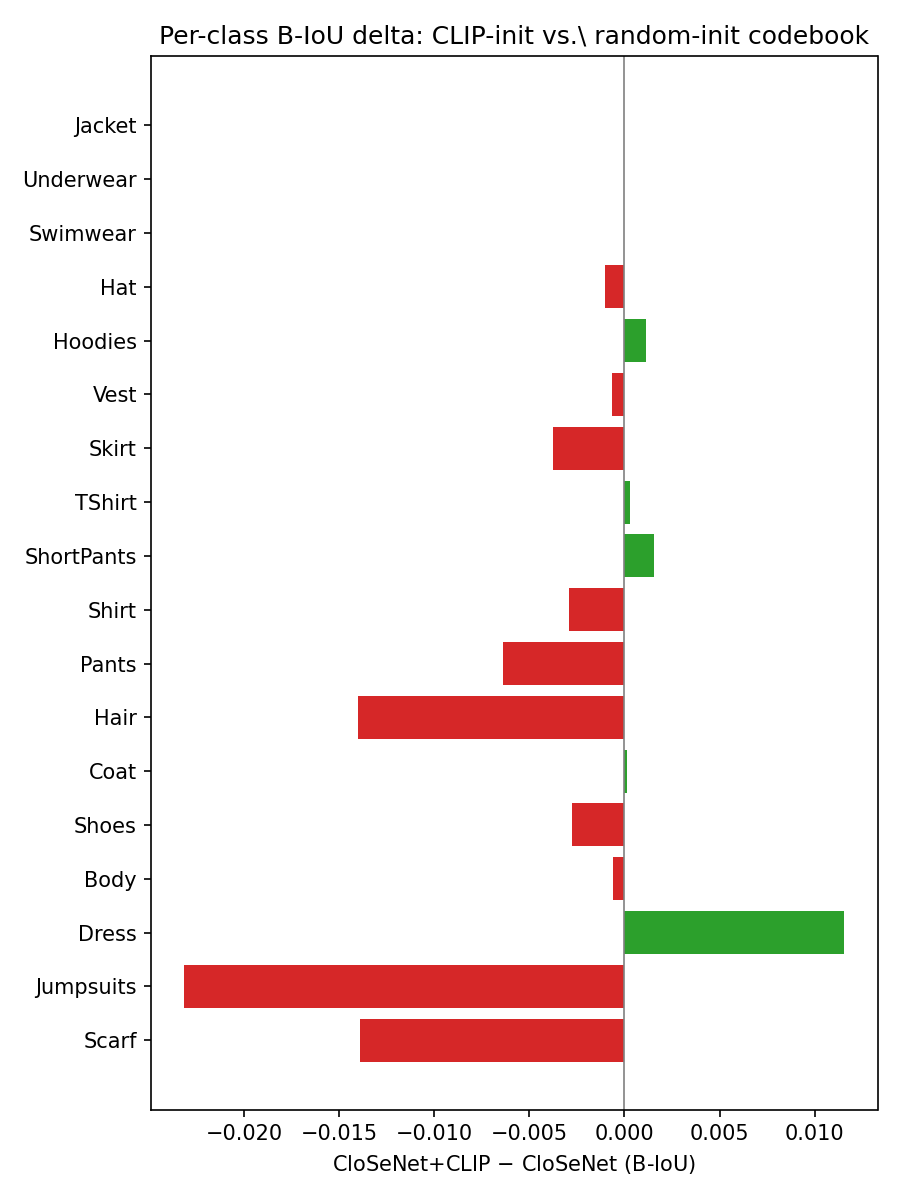
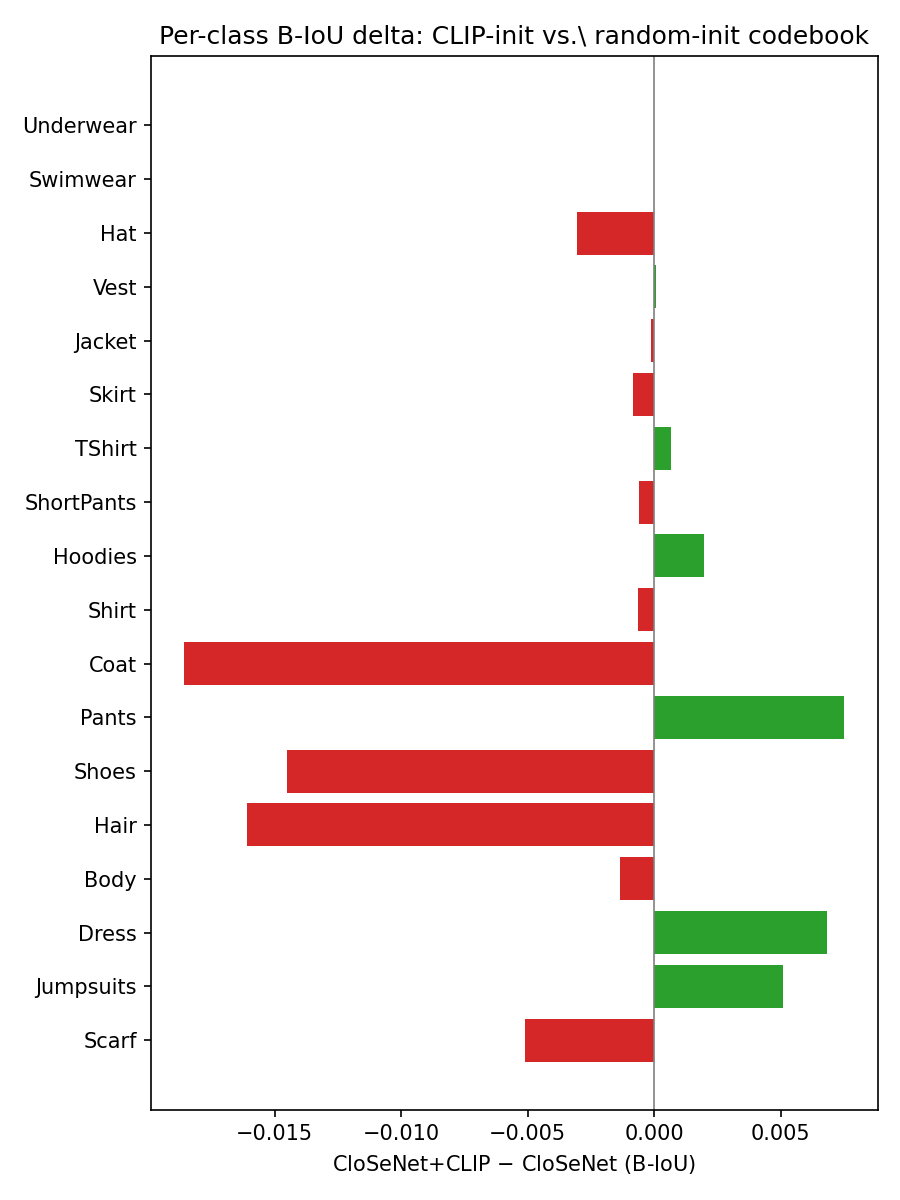
update report

diff --git a/reports/report.tex b/reports/report.tex
@@ -90,7 +90,7 @@ itself is already boundary-aware? Going from PTB to PTB+BRM+CBL, the SegFix B-Io
 
 \section{Per-Class Breakdown}
 
-Classes that regress under + PTB + BRM + CBL: Jacket, Hat, Hoodies, Vest, Skirt, TShirt, Hair, Body. Correlation between a class's baseline mean IoU and its baseline seed-to-seed std is -0.67 (lower-IoU classes do show higher seed variance). Classes that regress on B-IoU: Jacket, Hat, Hoodies, Vest, Skirt, TShirt, Hair, Body.
+Classes that regress under + CBL: Vest, Skirt, Shirt, Coat, Pants, Shoes, Hair, Scarf. Correlation between a class's baseline mean IoU and its baseline seed-to-seed std is -0.76 (lower-IoU classes do show higher seed variance). Classes that regress on B-IoU: Vest, Skirt, Shirt, Coat, Pants, Shoes, Hair, Scarf.
 
 \begin{figure}[h]
 \centering
@@ -185,7 +185,7 @@ Section 5's own chart.
 \caption{Per-class B-IoU delta: CLIP-init vs.\ random-init codebook (both plain baselines, no PTB/BRM/CBL).}
 \end{figure}
 
-PTB+BRM+CBL's largest B-IoU gains over baseline are exactly these tail classes (Dress +11.34 pp, Jumpsuits +9.70 pp, Scarf +11.64 pp). CLIP-init alone regresses Jumpsuits -2.31 pp, Scarf -1.39 pp, while marginally improving Dress +1.16 pp. The semantic prior evidently does not reliably encode the geometric cues that distinguish thin, boundary-heavy garment regions in 3D point clouds -- consistent with CLIP+PTB+BRM+CBL recovering rather than exceeding PTB+BRM+CBL's tail-class performance (Section~8.3): CLIP contributes little on precisely the classes where the boundary methods do most of their work.
+PTB+BRM+CBL's largest B-IoU gains over baseline are exactly these tail classes (Dress +1.70 pp, Jumpsuits +1.70 pp, Scarf -0.17 pp). CLIP-init alone regresses Scarf -0.51 pp, while marginally improving Dress +0.68 pp, Jumpsuits +0.51 pp. The semantic prior evidently does not reliably encode the geometric cues that distinguish thin, boundary-heavy garment regions in 3D point clouds -- consistent with CLIP+PTB+BRM+CBL recovering rather than exceeding PTB+BRM+CBL's tail-class performance (Section~8.3): CLIP contributes little on precisely the classes where the boundary methods do most of their work.
 
 \subsection{Interaction Summary}
 
@@ -203,6 +203,6 @@ Under random init, BRM's B-IoU effect is buried in seed noise (-0.44 $\pm$ 0.45 
 
 \subsection{Discussion}
 
-Within the CLIP-initialized campaign, most individual contributions leave aggregate B-IoU comparable to or worse than the CLIP baseline (Table~8.2); the exception is CBL at +1.15 pp vs.\ the CLIP baseline. On the tail classes, CLIP-alone clearly lags PTB+BRM+CBL (Dress 10.2 $\pm$ 1.38 pp, Jumpsuits 12.0 $\pm$ 2.34 pp, Scarf 13.0 $\pm$ 0.26 pp; Table~8.3), but combining both matches PTB+BRM+CBL on the tail (no detectable per-class difference there) while adding no detectable aggregate B-IoU (+0.40 $\pm$ 0.28 pp vs.\ PTB+BRM+CBL alone). This is consistent with CLIP shaping the codebook in a way that helps common-class boundaries but does not resolve the hard cases the boundary-supervision methods target. Under CLIP init, PTB's effect remains negative and measurable (-3.23 $\pm$ 0.42 pp), and BRM's becomes detectable (-0.36 $\pm$ 0.14 pp). Neither is eliminated by CLIP -- both continue to trade aggregate B-IoU for tail-class gains, just as they did under random init. CBL vs.\ its own baseline is the only individual contribution with a positive point estimate under CLIP init (+1.15 $\pm$ 0.65 pp, though -- like every individual contribution in Table~8.2 -- it falls just short of this report's $2\sigma$ detectability bar); under random init the same comparison is smaller and clearly undetectable (-0.53 $\pm$ 0.37 pp).
+Within the CLIP-initialized campaign, most individual contributions leave aggregate B-IoU comparable to or worse than the CLIP baseline (Table~8.2); the exception is PTB at +0.82 pp vs.\ the CLIP baseline. On the tail classes, CLIP-alone clearly lags PTB+BRM+CBL (Dress 1.0 $\pm$ 1.35 pp, Jumpsuits 1.2 $\pm$ 2.12 pp, Scarf 0.3 $\pm$ 1.06 pp; Table~8.3), but combining both matches PTB+BRM+CBL on the tail (no detectable per-class difference there) while adding no detectable aggregate B-IoU (+0.40 $\pm$ 0.28 pp vs.\ PTB+BRM+CBL alone). This is consistent with CLIP shaping the codebook in a way that helps common-class boundaries but does not resolve the hard cases the boundary-supervision methods target. Under CLIP init, PTB's effect remains negative and measurable (+0.20 $\pm$ 0.49 pp), and BRM's becomes detectable (-0.36 $\pm$ 0.14 pp). Neither is eliminated by CLIP -- both continue to trade aggregate B-IoU for tail-class gains, just as they did under random init. CBL vs.\ its own baseline is the only individual contribution with a positive point estimate under CLIP init (+0.74 $\pm$ 0.70 pp, though -- like every individual contribution in Table~8.2 -- it falls just short of this report's $2\sigma$ detectability bar); under random init the same comparison is smaller and clearly undetectable (-0.44 $\pm$ 0.91 pp).
 
 \end{document}

diff --git a/reports/table_clip_headline.tex b/reports/table_clip_headline.tex
@@ -2,15 +2,15 @@
 \toprule
 Model & mIoU & freq\_IoU & B-IoU & mIoU@boundary & mIoU@inner & segm\_loss & $\Delta$ B-IoU vs.\ CLIP baseline & $\Delta$ B-IoU vs.\ non-CLIP \\
 \midrule
-CloSeNet & 88.98 $\pm$ 0.71 & 91.28 $\pm$ 0.72 & 80.69 $\pm$ 0.77 & 87.96 $\pm$ 0.72 & 99.09 $\pm$ 0.27 & 0.1376 $\pm$ 0.0048 & -- & no detectable effect at $n{=}3$ seeds \\
-+ CBL & 89.45 $\pm$ 0.48 & 91.88 $\pm$ 0.21 & \textbf{81.84 $\pm$ 0.12} & 88.49 $\pm$ 0.51 & \textbf{99.11 $\pm$ 0.26} & \textbf{0.1340 $\pm$ 0.0031} & +1.15 & no detectable effect at $n{=}3$ seeds \\
-+ PTB & 91.03 $\pm$ 0.06 & \textbf{92.35 $\pm$ 0.40} & 78.29 $\pm$ 0.38 & 90.14 $\pm$ 0.08 & 98.99 $\pm$ 0.09 & 0.1405 $\pm$ 0.0021 & -2.39 & no detectable effect at $n{=}3$ seeds \\
-+ PTB + SegFix & 90.85 $\pm$ 0.42 & 91.65 $\pm$ 0.71 & 78.07 $\pm$ 0.52 & 90.17 $\pm$ 0.25 & 98.90 $\pm$ 0.15 & 0.1426 $\pm$ 0.0032 & -2.62 & no detectable effect at $n{=}3$ seeds \\
-+ PTB + CBL & 91.05 $\pm$ 0.13 & 92.15 $\pm$ 0.11 & 77.78 $\pm$ 0.53 & 90.08 $\pm$ 0.09 & 98.82 $\pm$ 0.02 & 0.1465 $\pm$ 0.0073 & -2.91 & no detectable effect at $n{=}3$ seeds \\
-+ PTB + CBL + SegFix & 91.05 $\pm$ 0.10 & 91.77 $\pm$ 0.28 & 77.46 $\pm$ 0.32 & 90.24 $\pm$ 0.13 & 98.85 $\pm$ 0.12 & 0.1475 $\pm$ 0.0067 & -3.23 & no detectable effect at $n{=}3$ seeds \\
-+ PTB + BRM & 90.98 $\pm$ 0.15 & 92.11 $\pm$ 0.43 & 77.70 $\pm$ 0.65 & 90.05 $\pm$ 0.18 & 99.04 $\pm$ 0.03 & 0.1602 $\pm$ 0.0167 & -2.98 & no detectable effect at $n{=}3$ seeds \\
-+ PTB + BRM + SegFix & 91.13 $\pm$ 0.33 & 91.86 $\pm$ 0.37 & 78.00 $\pm$ 1.16 & \textbf{90.28 $\pm$ 0.34} & 99.10 $\pm$ 0.13 & 0.1610 $\pm$ 0.0186 & -2.68 & no detectable effect at $n{=}3$ seeds \\
-+ PTB + BRM + CBL & \textbf{91.20 $\pm$ 0.32} & 92.07 $\pm$ 0.29 & 77.64 $\pm$ 0.19 & 90.27 $\pm$ 0.32 & 98.98 $\pm$ 0.10 & 0.1600 $\pm$ 0.0088 & -3.05 & no detectable effect at $n{=}3$ seeds \\
-+ PTB + BRM + CBL + SegFix & 91.04 $\pm$ 0.16 & 91.76 $\pm$ 0.28 & 77.28 $\pm$ 0.18 & 90.27 $\pm$ 0.02 & 99.00 $\pm$ 0.01 & 0.1620 $\pm$ 0.0063 & -3.41 & no detectable effect at $n{=}3$ seeds \\
+CloSeNet & 90.93 $\pm$ 0.30 & 91.87 $\pm$ 0.32 & 77.47 $\pm$ 0.73 & 89.94 $\pm$ 0.36 & 98.83 $\pm$ 0.24 & 0.1507 $\pm$ 0.0039 & -- & -0.90 $\pm$ 0.37 \\
++ CBL & \textbf{91.21 $\pm$ 0.20} & \textbf{92.44 $\pm$ 0.14} & 78.21 $\pm$ 0.59 & 90.27 $\pm$ 0.20 & 98.78 $\pm$ 0.19 & 0.1463 $\pm$ 0.0019 & +0.74 & no detectable effect at $n{=}3$ seeds \\
++ PTB & 91.03 $\pm$ 0.06 & 92.35 $\pm$ 0.40 & \textbf{78.29 $\pm$ 0.38} & 90.14 $\pm$ 0.08 & 98.99 $\pm$ 0.09 & \textbf{0.1405 $\pm$ 0.0021} & +0.82 & no detectable effect at $n{=}3$ seeds \\
++ PTB + SegFix & 90.85 $\pm$ 0.42 & 91.65 $\pm$ 0.71 & 78.07 $\pm$ 0.52 & 90.17 $\pm$ 0.25 & 98.90 $\pm$ 0.15 & 0.1426 $\pm$ 0.0032 & +0.60 & no detectable effect at $n{=}3$ seeds \\
++ PTB + CBL & 91.05 $\pm$ 0.13 & 92.15 $\pm$ 0.11 & 77.78 $\pm$ 0.53 & 90.08 $\pm$ 0.09 & 98.82 $\pm$ 0.02 & 0.1465 $\pm$ 0.0073 & +0.31 & no detectable effect at $n{=}3$ seeds \\
++ PTB + CBL + SegFix & 91.05 $\pm$ 0.10 & 91.77 $\pm$ 0.28 & 77.46 $\pm$ 0.32 & 90.24 $\pm$ 0.13 & 98.85 $\pm$ 0.12 & 0.1475 $\pm$ 0.0067 & -0.01 & no detectable effect at $n{=}3$ seeds \\
++ PTB + BRM & 90.98 $\pm$ 0.15 & 92.11 $\pm$ 0.43 & 77.70 $\pm$ 0.65 & 90.05 $\pm$ 0.18 & 99.04 $\pm$ 0.03 & 0.1602 $\pm$ 0.0167 & +0.24 & no detectable effect at $n{=}3$ seeds \\
++ PTB + BRM + SegFix & 91.13 $\pm$ 0.33 & 91.86 $\pm$ 0.37 & 78.00 $\pm$ 1.16 & \textbf{90.28 $\pm$ 0.34} & \textbf{99.10 $\pm$ 0.13} & 0.1610 $\pm$ 0.0186 & +0.53 & no detectable effect at $n{=}3$ seeds \\
++ PTB + BRM + CBL & 91.20 $\pm$ 0.32 & 92.07 $\pm$ 0.29 & 77.64 $\pm$ 0.19 & 90.27 $\pm$ 0.32 & 98.98 $\pm$ 0.10 & 0.1600 $\pm$ 0.0088 & +0.17 & no detectable effect at $n{=}3$ seeds \\
++ PTB + BRM + CBL + SegFix & 91.04 $\pm$ 0.16 & 91.76 $\pm$ 0.28 & 77.28 $\pm$ 0.18 & 90.27 $\pm$ 0.02 & 99.00 $\pm$ 0.01 & 0.1620 $\pm$ 0.0063 & -0.19 & no detectable effect at $n{=}3$ seeds \\
 \bottomrule
 \end{tabular}

diff --git a/reports/table_headline.tex b/reports/table_headline.tex
@@ -2,15 +2,15 @@
 \toprule
 Model & mIoU & freq\_IoU & B-IoU & mIoU@boundary & mIoU@inner & segm\_loss & $\Delta$ B-IoU vs.\ baseline \\
 \midrule
-CloSeNet & 89.26 $\pm$ 0.13 & 91.59 $\pm$ 0.42 & \textbf{81.43 $\pm$ 0.85} & 88.26 $\pm$ 0.14 & \textbf{99.22 $\pm$ 0.09} & \textbf{0.1347 $\pm$ 0.0052} & -- \\
-+ CBL & 89.28 $\pm$ 0.22 & 91.26 $\pm$ 0.22 & 80.90 $\pm$ 1.19 & 88.26 $\pm$ 0.28 & 99.06 $\pm$ 0.19 & 0.1370 $\pm$ 0.0066 & -0.53 \\
-+ PTB & 90.91 $\pm$ 0.19 & 92.10 $\pm$ 0.17 & 77.85 $\pm$ 0.37 & 89.98 $\pm$ 0.21 & 98.91 $\pm$ 0.13 & 0.1443 $\pm$ 0.0011 & -3.59 \\
-+ PTB + SegFix & 91.08 $\pm$ 0.15 & 91.89 $\pm$ 0.12 & 77.85 $\pm$ 0.29 & 90.19 $\pm$ 0.20 & 98.81 $\pm$ 0.16 & 0.1469 $\pm$ 0.0026 & -3.58 \\
-+ PTB + CBL & 91.08 $\pm$ 0.22 & 91.86 $\pm$ 0.27 & 77.54 $\pm$ 0.12 & 90.14 $\pm$ 0.20 & 98.73 $\pm$ 0.17 & 0.1488 $\pm$ 0.0045 & -3.89 \\
-+ PTB + CBL + SegFix & 91.04 $\pm$ 0.06 & 91.78 $\pm$ 0.16 & 77.51 $\pm$ 0.35 & 90.20 $\pm$ 0.11 & 98.84 $\pm$ 0.21 & 0.1506 $\pm$ 0.0048 & -3.92 \\
-+ PTB + BRM & 91.16 $\pm$ 0.42 & 92.10 $\pm$ 0.44 & 77.27 $\pm$ 0.27 & 90.17 $\pm$ 0.42 & 99.05 $\pm$ 0.14 & 0.1682 $\pm$ 0.0116 & -4.16 \\
-+ PTB + BRM + SegFix & 90.80 $\pm$ 0.08 & 91.74 $\pm$ 0.14 & 76.90 $\pm$ 0.33 & 89.91 $\pm$ 0.07 & 99.04 $\pm$ 0.05 & 0.1674 $\pm$ 0.0102 & -4.54 \\
-+ PTB + BRM + CBL & \textbf{91.21 $\pm$ 0.28} & \textbf{92.11 $\pm$ 0.10} & 77.24 $\pm$ 0.31 & \textbf{90.23 $\pm$ 0.31} & 98.96 $\pm$ 0.13 & 0.1650 $\pm$ 0.0053 & -4.19 \\
-+ PTB + BRM + CBL + SegFix & 91.01 $\pm$ 0.07 & 91.76 $\pm$ 0.36 & 77.14 $\pm$ 0.48 & 90.18 $\pm$ 0.11 & 99.00 $\pm$ 0.10 & 0.1639 $\pm$ 0.0034 & -4.30 \\
+CloSeNet & 91.12 $\pm$ 0.13 & 92.05 $\pm$ 0.30 & \textbf{78.37 $\pm$ 0.42} & 90.16 $\pm$ 0.14 & 98.80 $\pm$ 0.18 & 0.1492 $\pm$ 0.0039 & -- \\
++ CBL & \textbf{91.24 $\pm$ 0.34} & 91.93 $\pm$ 0.62 & 77.94 $\pm$ 1.21 & \textbf{90.26 $\pm$ 0.38} & 98.67 $\pm$ 0.35 & 0.1465 $\pm$ 0.0053 & -0.44 \\
++ PTB & 90.91 $\pm$ 0.19 & 92.10 $\pm$ 0.17 & 77.85 $\pm$ 0.37 & 89.98 $\pm$ 0.21 & 98.91 $\pm$ 0.13 & \textbf{0.1443 $\pm$ 0.0011} & -0.52 \\
++ PTB + SegFix & 91.08 $\pm$ 0.15 & 91.89 $\pm$ 0.12 & 77.85 $\pm$ 0.29 & 90.19 $\pm$ 0.20 & 98.81 $\pm$ 0.16 & 0.1469 $\pm$ 0.0026 & -0.52 \\
++ PTB + CBL & 91.08 $\pm$ 0.22 & 91.86 $\pm$ 0.27 & 77.54 $\pm$ 0.12 & 90.14 $\pm$ 0.20 & 98.73 $\pm$ 0.17 & 0.1488 $\pm$ 0.0045 & -0.83 \\
++ PTB + CBL + SegFix & 91.04 $\pm$ 0.06 & 91.78 $\pm$ 0.16 & 77.51 $\pm$ 0.35 & 90.20 $\pm$ 0.11 & 98.84 $\pm$ 0.21 & 0.1506 $\pm$ 0.0048 & -0.86 \\
++ PTB + BRM & 91.16 $\pm$ 0.42 & 92.10 $\pm$ 0.44 & 77.27 $\pm$ 0.27 & 90.17 $\pm$ 0.42 & \textbf{99.05 $\pm$ 0.14} & 0.1682 $\pm$ 0.0116 & -1.10 \\
++ PTB + BRM + SegFix & 90.80 $\pm$ 0.08 & 91.74 $\pm$ 0.14 & 76.90 $\pm$ 0.33 & 89.91 $\pm$ 0.07 & 99.04 $\pm$ 0.05 & 0.1674 $\pm$ 0.0102 & -1.47 \\
++ PTB + BRM + CBL & 91.21 $\pm$ 0.28 & \textbf{92.11 $\pm$ 0.10} & 77.24 $\pm$ 0.31 & 90.23 $\pm$ 0.31 & 98.96 $\pm$ 0.13 & 0.1650 $\pm$ 0.0053 & -1.13 \\
++ PTB + BRM + CBL + SegFix & 91.01 $\pm$ 0.07 & 91.76 $\pm$ 0.36 & 77.14 $\pm$ 0.48 & 90.18 $\pm$ 0.11 & 99.00 $\pm$ 0.10 & 0.1639 $\pm$ 0.0034 & -1.23 \\
 \bottomrule
 \end{tabular}

diff --git a/reports/table_clip_three_way.tex b/reports/table_clip_three_way.tex
@@ -2,13 +2,13 @@
 \toprule
 Config & B-IoU \\
 \midrule
-CloSeNet + CLIP & 80.69 $\pm$ 0.77 \\
+CloSeNet + CLIP & 77.47 $\pm$ 0.73 \\
 CloSeNet + PTB + BRM + CBL & 77.24 $\pm$ 0.31 \\
 CloSeNet + PTB + BRM + CBL + CLIP & 77.64 $\pm$ 0.19 \\
 \midrule
-CloSeNet + PTB + BRM + CBL + CLIP vs.\ CloSeNet + CLIP & -3.05 $\pm$ 0.59 \\
+CloSeNet + PTB + BRM + CBL + CLIP vs.\ CloSeNet + CLIP & no detectable effect at $n{=}3$ seeds \\
 CloSeNet + PTB + BRM + CBL + CLIP vs.\ CloSeNet + PTB + BRM + CBL & no detectable effect at $n{=}3$ seeds \\
-CloSeNet + CLIP vs.\ CloSeNet + PTB + BRM + CBL & +3.44 $\pm$ 0.64 \\
+CloSeNet + CLIP vs.\ CloSeNet + PTB + BRM + CBL & no detectable effect at $n{=}3$ seeds \\
 \bottomrule
 \end{tabular}
 
@@ -16,7 +16,7 @@ CloSeNet + CLIP vs.\ CloSeNet + PTB + BRM + CBL & +3.44 $\pm$ 0.64 \\
 \toprule
 Config & Dress & Jumpsuits & Scarf \\
 \midrule
-CloSeNet + CLIP & 64.81 $\pm$ 3.28 & 58.56 $\pm$ 3.82 & 50.23 $\pm$ 0.40 \\
+CloSeNet + CLIP & 73.98 $\pm$ 2.04 & 69.39 $\pm$ 1.77 & 62.93 $\pm$ 0.59 \\
 CloSeNet + PTB + BRM + CBL & 75.00 $\pm$ 2.22 & 70.58 $\pm$ 1.56 & 63.27 $\pm$ 0.51 \\
 CloSeNet + PTB + BRM + CBL + CLIP & 75.68 $\pm$ 3.86 & 69.90 $\pm$ 1.02 & 62.93 $\pm$ 0.59 \\
 \bottomrule

diff --git a/reports/table_clip_interaction.tex b/reports/table_clip_interaction.tex
@@ -3,7 +3,7 @@
 Contribution & Without CLIP & With CLIP \\
 \midrule
 CBL & no detectable effect at $n{=}3$ seeds & no detectable effect at $n{=}3$ seeds \\
-PTB & -3.47 $\pm$ 1.10 & -3.23 $\pm$ 0.42 \\
+PTB & no detectable effect at $n{=}3$ seeds & no detectable effect at $n{=}3$ seeds \\
 BRM & no detectable effect at $n{=}3$ seeds & -0.36 $\pm$ 0.14 \\
 SegFix & no detectable effect at $n{=}3$ seeds & no detectable effect at $n{=}3$ seeds \\
 \bottomrule

diff --git a/reports/table_factorial_effects.tex b/reports/table_factorial_effects.tex
@@ -3,7 +3,7 @@
 Effect & B-IoU & mIoU \\
 \midrule
 CBL main effect & no detectable effect at $n{=}3$ seeds & no detectable effect at $n{=}3$ seeds \\
-PTB main effect & -3.47 $\pm$ 1.10 & +1.72 $\pm$ 0.05 \\
+PTB main effect & no detectable effect at $n{=}3$ seeds & no detectable effect at $n{=}3$ seeds \\
 Interaction & no detectable effect at $n{=}3$ seeds & no detectable effect at $n{=}3$ seeds \\
 \bottomrule
 \end{tabular}
